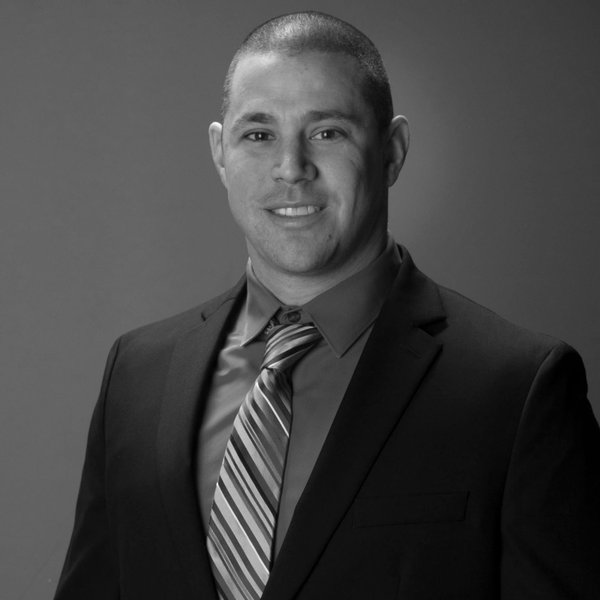
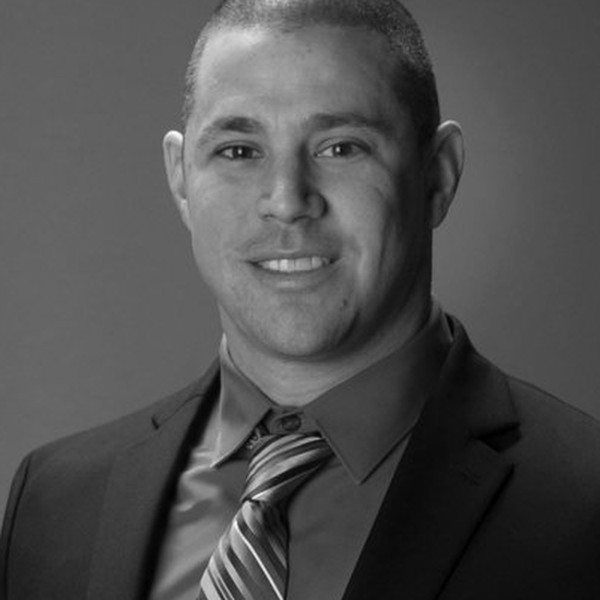
Batch 7: Company About centered, bio ring outlines, Aaron crop, user edits
- Bug #42: Purple ring outlines on all bio circles increased to 60% opacity
- Bug #44: ABOUT label + heading centered above two-column layout, items-start alignment
- Bug #41: Aaron Salinas headshot cropped tighter to face to match other photos
- Bug #43: About image already hue-shifted to purple by user edit
- Incorporated user edits to CompanyPage and other files

diff --git a/src/pages/PlatformPage.jsx b/src/pages/PlatformPage.jsx
@@ -69,7 +69,7 @@ export default function PlatformPage() {
       </section>
 
       {/* PRODUCT LINES */}
-      <section className="bg-gradient-to-b from-white via-brand-light to-white py-14 lg:py-18">
+      <section className="bg-gradient-to-b from-white via-brand-light to-white py-10 lg:py-14">
         <Reveal className="max-w-5xl mx-auto px-6 lg:px-8">
           <p className="text-sm font-bold uppercase tracking-[0.18em] text-brand-primary font-body mb-4 text-center">Product Families</p>
           <h2 className="text-[clamp(2rem,4vw,3rem)] font-semibold leading-[1.1] tracking-tight mb-6 text-brand-deep font-heading text-center">
@@ -121,7 +121,7 @@ export default function PlatformPage() {
       </section>
 
       {/* TOMME DEEP DIVE */}
-      <section id="tomme" className="py-14 lg:py-18" style={{ background: 'linear-gradient(180deg, #28104E 0%, #351566 50%, #28104E 100%)' }}>
+      <section id="tomme" className="py-10 lg:py-14" style={{ background: 'linear-gradient(180deg, #28104E 0%, #351566 50%, #28104E 100%)' }}>
         <Reveal className="max-w-5xl mx-auto px-6 lg:px-8">
           <p className="text-sm font-bold uppercase tracking-[0.18em] text-brand-lavender font-body mb-4 text-center">TOMME Core</p>
           <h2 className="text-[clamp(2rem,4vw,3rem)] font-semibold leading-[1.1] tracking-tight mb-6 text-white font-heading text-center">
@@ -156,7 +156,7 @@ export default function PlatformPage() {
       </section>
 
       {/* SIX-STEP WORKFLOW */}
-      <section className="py-14 lg:py-18" style={{ background: 'linear-gradient(180deg, #28104E 0%, #351566 50%, #28104E 100%)' }}>
+      <section className="py-10 lg:py-14" style={{ background: 'linear-gradient(180deg, #28104E 0%, #351566 50%, #28104E 100%)' }}>
         <Reveal className="max-w-5xl mx-auto px-6 lg:px-8">
           <p className="text-sm font-bold uppercase tracking-[0.18em] text-brand-lavender font-body mb-4 text-center">Signal-to-Action Workflow</p>
           <h2 className="text-[clamp(2rem,4vw,3rem)] font-semibold leading-[1.1] tracking-tight mb-6 text-white font-heading text-center">
@@ -166,7 +166,7 @@ export default function PlatformPage() {
             Six steps. Zero gaps. The platform is accountable for completion, not just recommendation generation.
           </p>
 
-          <div className="grid md:grid-cols-3 gap-5 mb-10">
+          <div className="grid grid-cols-2 md:grid-cols-3 gap-4 mb-10">
             {[
               { n: '01', title: 'Sense', desc: 'New lab, symptom, claim, message, wearable, or screening-due event.' },
               { n: '02', title: 'Infer', desc: 'Clinical opportunity + trajectory + trust and friction.' },
@@ -175,18 +175,18 @@ export default function PlatformPage() {
               { n: '05', title: 'Complete', desc: 'Booked screening, workup, diagnosis support, or deferred path.' },
               { n: '06', title: 'Learn', desc: 'Response, drop-off, override, and outcome update the model.' },
             ].map((step, i) => (
-              <div key={i} className="relative text-center py-10 px-6 overflow-hidden rounded-2xl border border-white/10 bg-white/[0.04] hover:bg-white/[0.07] transition-all duration-300">
+              <div key={i} className="relative text-center py-6 px-5 overflow-hidden rounded-2xl border border-white/10 bg-white/[0.04] hover:bg-white/[0.07] transition-all duration-300">
                 <div
-                  className="font-heading font-extrabold leading-[0.85] select-none mb-4"
-                  style={{ fontSize: 'clamp(4rem, 6vw, 5.5rem)', color: 'rgba(155,113,214,0.3)', letterSpacing: '-0.04em' }}
+                  className="font-heading font-extrabold leading-[0.85] select-none mb-3"
+                  style={{ fontSize: 'clamp(2.5rem, 4vw, 3.5rem)', color: 'rgba(155,113,214,0.3)', letterSpacing: '-0.04em' }}
                   aria-hidden="true"
                 >
                   {step.n}
                 </div>
-                <span className="inline-flex items-center px-6 py-1.5 rounded-full border-[1.5px] border-brand-medium/35 text-brand-medium text-xs font-bold uppercase tracking-[0.16em] font-body mb-4">
+                <span className="inline-flex items-center px-5 py-1 rounded-full border-[1.5px] border-brand-medium/35 text-brand-medium text-xs font-bold uppercase tracking-[0.16em] font-body mb-3">
                   {step.title}
                 </span>
-                <p className="text-base text-brand-lavender font-light leading-relaxed font-body mx-auto">{step.desc}</p>
+                <p className="text-[15px] text-brand-lavender font-light leading-relaxed font-body mx-auto">{step.desc}</p>
               </div>
             ))}
           </div>
@@ -201,7 +201,7 @@ export default function PlatformPage() {
       </section>
 
       {/* SIGNAL FABRIC */}
-      <section className="py-14 lg:py-18" style={{ background: 'linear-gradient(180deg, #28104E 0%, #351566 50%, #28104E 100%)' }}>
+      <section className="py-10 lg:py-14" style={{ background: 'linear-gradient(180deg, #28104E 0%, #351566 50%, #28104E 100%)' }}>
         <Reveal className="max-w-5xl mx-auto px-6 lg:px-8">
           <p className="text-sm font-bold uppercase tracking-[0.18em] text-brand-lavender font-body mb-4 text-center">Multimodal Signal Fabric</p>
           <h2 className="text-[clamp(2rem,4vw,3rem)] font-semibold leading-[1.1] tracking-tight mb-6 text-white font-heading text-center">
@@ -241,7 +241,7 @@ export default function PlatformPage() {
       </section>
 
       {/* FAQ */}
-      <section className="py-14 lg:py-18 bg-gradient-to-b from-brand-light to-white">
+      <section className="py-10 lg:py-14 bg-gradient-to-b from-brand-light to-white">
         <Reveal className="max-w-3xl mx-auto px-6 lg:px-8">
           <p className="text-sm font-bold uppercase tracking-[0.18em] text-brand-primary font-body mb-4">FAQ</p>
           <h2 className="text-[clamp(2rem,4vw,3rem)] font-semibold leading-[1.1] tracking-tight mb-6 text-brand-deep font-heading">

diff --git a/src/pages/HomePage.jsx b/src/pages/HomePage.jsx
@@ -132,7 +132,7 @@ export default function HomePage() {
 
 
       {/* ─── SECTION 1: THE PROBLEM ─── */}
-      <section className="bg-gradient-to-b from-white via-brand-light to-white py-14 lg:py-18">
+      <section className="bg-gradient-to-b from-white via-brand-light to-white py-10 lg:py-14">
         <Reveal className="max-w-5xl mx-auto px-6 lg:px-8">
           <p className="text-sm font-bold uppercase tracking-[0.18em] text-brand-primary font-body mb-4 text-center">
             The Problem
@@ -198,7 +198,7 @@ export default function HomePage() {
 
 
       {/* ─── SECTION 2: THE PLATFORM ─── */}
-      <section className="py-14 lg:py-18" style={{ background: 'linear-gradient(180deg, #28104E 0%, #351566 50%, #28104E 100%)' }}>
+      <section className="py-10 lg:py-14" style={{ background: 'linear-gradient(180deg, #28104E 0%, #351566 50%, #28104E 100%)' }}>
         <Reveal className="max-w-5xl mx-auto px-6 lg:px-8">
           <p className="text-sm font-bold uppercase tracking-[0.18em] text-brand-lavender font-body mb-4 text-center">
             The Platform
@@ -257,7 +257,7 @@ export default function HomePage() {
 
 
       {/* ─── SECTION 3: TOMME CALLOUT ─── */}
-      <section className="py-14 lg:py-18" style={{ background: 'linear-gradient(135deg, #28104E 0%, #1a0a35 100%)' }}>
+      <section className="py-10 lg:py-14" style={{ background: 'linear-gradient(135deg, #28104E 0%, #1a0a35 100%)' }}>
         <Reveal className="max-w-3xl mx-auto px-6 lg:px-8 text-center">
           <p className="text-sm font-bold uppercase tracking-[0.18em] text-brand-lavender font-body mb-4">
             TOMME
@@ -274,7 +274,7 @@ export default function HomePage() {
 
 
       {/* ─── SECTION 4: WHY BUYERS CARE ─── */}
-      <section className="bg-gradient-to-b from-white via-brand-light to-white py-14 lg:py-18">
+      <section className="bg-gradient-to-b from-white via-brand-light to-white py-10 lg:py-14">
         <Reveal className="max-w-5xl mx-auto px-6 lg:px-8">
           <p className="text-sm font-bold uppercase tracking-[0.18em] text-brand-primary font-body mb-4 text-center">
             Why Buyers Care
@@ -329,7 +329,7 @@ export default function HomePage() {
 
 
       {/* ─── SECTION 5: TRUST BY DESIGN ─── */}
-      <section className="py-14 lg:py-18" style={{ background: 'linear-gradient(180deg, #28104E 0%, #351566 50%, #28104E 100%)' }}>
+      <section className="py-10 lg:py-14" style={{ background: 'linear-gradient(180deg, #28104E 0%, #351566 50%, #28104E 100%)' }}>
         <Reveal className="max-w-5xl mx-auto px-6 lg:px-8">
           <p className="text-sm font-bold uppercase tracking-[0.18em] text-brand-lavender font-body mb-4 text-center">
             Trust by Design
@@ -370,7 +370,7 @@ export default function HomePage() {
 
 
       {/* ─── SECTION 6: EVIDENCE PREVIEW ─── */}
-      <section className="bg-gradient-to-b from-white via-brand-light to-white py-14 lg:py-18">
+      <section className="bg-gradient-to-b from-white via-brand-light to-white py-10 lg:py-14">
         <Reveal className="max-w-5xl mx-auto px-6 lg:px-8">
           <p className="text-sm font-bold uppercase tracking-[0.18em] text-brand-primary font-body mb-4 text-center">
             Evidence
@@ -422,7 +422,7 @@ export default function HomePage() {
 
 
       {/* ─── SECTION 7: AUDIENCE ─── */}
-      <section className="py-14 lg:py-18" style={{ background: 'linear-gradient(180deg, #28104E 0%, #351566 50%, #28104E 100%)' }}>
+      <section className="py-10 lg:py-14" style={{ background: 'linear-gradient(180deg, #28104E 0%, #351566 50%, #28104E 100%)' }}>
         <Reveal className="max-w-5xl mx-auto px-6 lg:px-8">
           <p className="text-sm font-bold uppercase tracking-[0.18em] text-brand-lavender font-body mb-4 text-center">
             Get Started
@@ -461,7 +461,7 @@ export default function HomePage() {
 
 
       {/* ─── FAQ ─── */}
-      <section className="py-14 lg:py-18 bg-gradient-to-b from-brand-light to-white">
+      <section className="py-10 lg:py-14 bg-gradient-to-b from-brand-light to-white">
         <Reveal className="max-w-3xl mx-auto px-6 lg:px-8">
           <p className="text-sm font-bold uppercase tracking-[0.18em] text-brand-primary font-body mb-4 text-center">
             Frequently Asked Questions

diff --git a/src/pages/CompanyPage.jsx b/src/pages/CompanyPage.jsx
@@ -33,16 +33,18 @@ function CompanyHero() {
 function AboutSection() {
   return (
     <SectionWrapper bg="light">
-      <div className="grid grid-cols-1 lg:grid-cols-2 gap-12 items-center">
+      <div className="text-center mb-12">
+        <SectionLabel text="About" light />
+        <h2
+          className="mt-4 font-heading font-semibold text-brand-deep leading-[1.15] tracking-[-0.01em]"
+          style={{ fontSize: 'clamp(2rem, 3.5vw, 3rem)' }}
+        >
+          The space between signal and action
+        </h2>
+      </div>
+      <div className="grid grid-cols-1 lg:grid-cols-2 gap-12 items-start">
         <div>
-          <SectionLabel text="About" light />
-          <h2
-            className="mt-4 font-heading font-semibold text-brand-deep leading-[1.15] tracking-[-0.01em]"
-            style={{ fontSize: 'clamp(2rem, 3.5vw, 3rem)' }}
-          >
-            The space between signal and action
-          </h2>
-          <p className="mt-6 text-gray-600 font-body font-light leading-relaxed text-lg">
+          <p className="text-gray-600 font-body font-light leading-relaxed text-lg">
             Health systems generate signals every day — screening flags, lab anomalies, risk scores, behavioral indicators. But the distance between finding a signal and completing the right next step is where healthcare fails most people.
           </p>
           <p className="mt-4 text-gray-600 font-body font-light leading-relaxed text-lg">
@@ -55,7 +57,7 @@ function AboutSection() {
         <div className="rounded-2xl overflow-hidden shadow-card-hover">
           <img
             src="https://images.unsplash.com/photo-1551288049-bebda4e38f71?w=800&q=80"
-            style={{ filter: 'hue-rotate(240deg) saturate(1.3)' }}
+            style={{ filter: 'hue-rotate(260deg) saturate(1.6) brightness(0.9)' }}
             alt="Data visualization representing multimodal health signals"
             className="w-full h-96 object-cover"
           />
@@ -111,13 +113,9 @@ function OriginsSection() {
         ]} />
       </div>
 
-      <p className="mt-10 text-brand-lavender/80 font-body font-light italic text-[17px] max-w-3xl">
+      <p className="mt-8 text-brand-lavender/80 font-body font-light italic text-[17px] max-w-3xl">
         These represent enabling lineage — not co-equal brands. Person Health is the platform. Everything else feeds&nbsp;into&nbsp;it.
       </p>
-
-      <div className="mt-10 text-center">
-        <Button href="/platform#tomme" variant="secondary">See how TOMME works</Button>
-      </div>
     </SectionWrapper>
   )
 }
@@ -230,10 +228,10 @@ function LeadershipSection() {
                     <img
                       src={photos[member.name]}
                       alt={member.name}
-                      className="w-28 h-28 lg:w-32 lg:h-32 rounded-full object-cover mx-auto border-3 border-brand-lavender/30 group-hover:border-brand-primary/50 transition-all duration-300 grayscale-0"
+                      className="w-28 h-28 lg:w-32 lg:h-32 rounded-full object-cover mx-auto ring-[3px] ring-brand-primary/60 group-hover:ring-brand-primary/70 transition-all duration-300"
                     />
                   ) : (
-                    <div className="w-28 h-28 lg:w-32 lg:h-32 rounded-full bg-gradient-to-br from-brand-primary/20 to-brand-light border-3 border-brand-lavender/30 flex items-center justify-center mx-auto" aria-hidden="true">
+                    <div className="w-28 h-28 lg:w-32 lg:h-32 rounded-full bg-gradient-to-br from-brand-primary/20 to-brand-light ring-[3px] ring-brand-primary/60 flex items-center justify-center mx-auto" aria-hidden="true">
                       <Users className="w-10 h-10 text-brand-primary/40" strokeWidth={1.5} />
                     </div>
                   )}

diff --git a/src/pages/EvidencePage.jsx b/src/pages/EvidencePage.jsx
@@ -54,8 +54,8 @@ function ValidationLibrary() {
         {/* Breast CED */}
         <Card variant="light">
           <div className="flex items-start gap-4 mb-4">
-            <div className="w-14 h-14 p-3 rounded-2xl bg-gradient-to-br from-brand-primary/10 to-brand-light border border-brand-lavender/30 flex items-center justify-center shrink-0" aria-hidden="true">
-              <Dna className="w-full h-full text-brand-primary" strokeWidth={1.5} />
+            <div className="w-14 h-14 p-3 rounded-2xl flex items-center justify-center shrink-0" style={{ background: 'linear-gradient(135deg, #6237A0, #28104E)' }} aria-hidden="true">
+              <Dna className="w-full h-full text-white" strokeWidth={1.5} />
             </div>
             <div>
               <h3 className="font-heading font-semibold text-brand-deep text-lg">Breast Cancer Early Detection</h3>
@@ -80,8 +80,8 @@ function ValidationLibrary() {
         {/* Multiple Myeloma */}
         <Card variant="light">
           <div className="flex items-start gap-4 mb-4">
-            <div className="w-14 h-14 p-3 rounded-2xl bg-gradient-to-br from-brand-primary/10 to-brand-light border border-brand-lavender/30 flex items-center justify-center shrink-0" aria-hidden="true">
-              <FlaskConical className="w-full h-full text-brand-primary" strokeWidth={1.5} />
+            <div className="w-14 h-14 p-3 rounded-2xl flex items-center justify-center shrink-0" style={{ background: 'linear-gradient(135deg, #6237A0, #28104E)' }} aria-hidden="true">
+              <FlaskConical className="w-full h-full text-white" strokeWidth={1.5} />
             </div>
             <div>
               <h3 className="font-heading font-semibold text-brand-deep text-lg">Multiple Myeloma Screening</h3>
